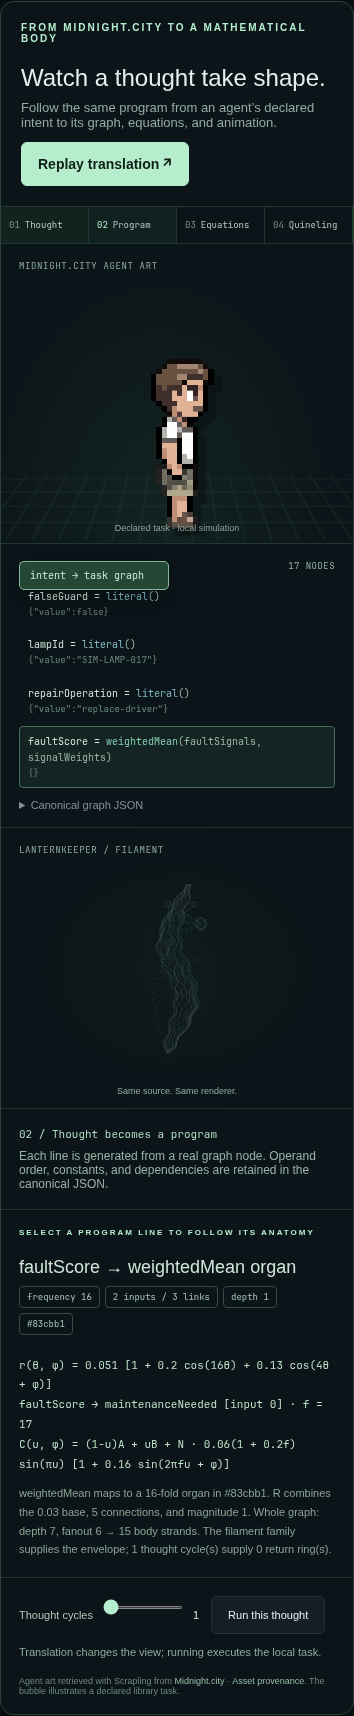
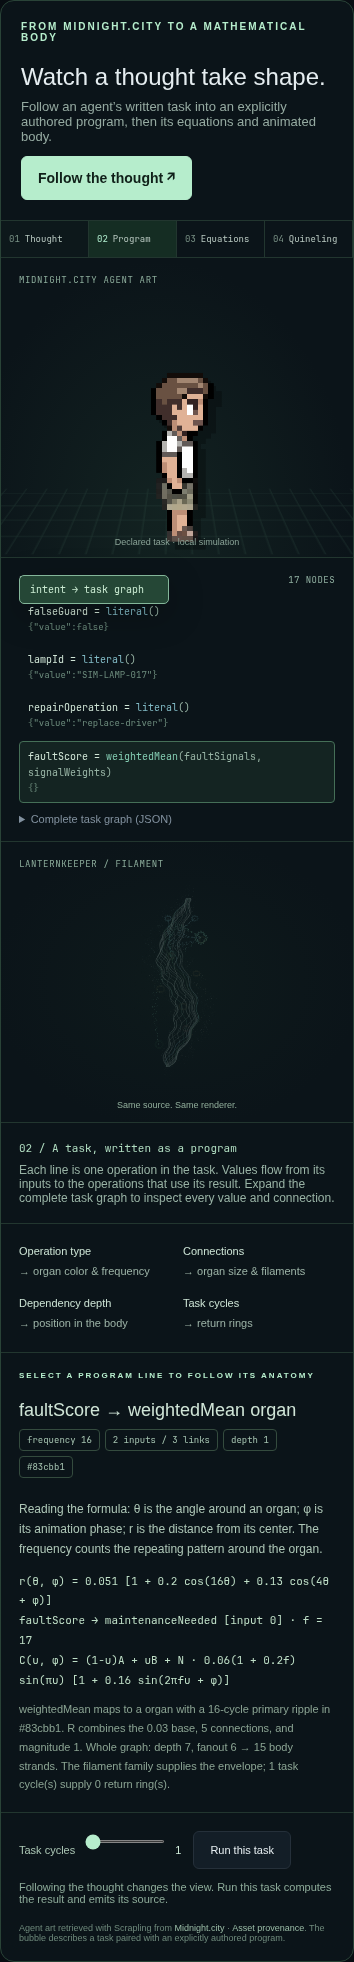
Explain Quinelings through tasks, anatomy, and source reproduction

diff --git a/index.html b/index.html
@@ -1,28 +1,55 @@
 <!doctype html>
 <html lang="en">
-<head><meta charset="utf-8"><meta name="viewport" content="width=device-width,initial-scale=1"><meta name="theme-color" content="#080d12"><title>Quinelings — An executable bestiary</title><link rel="stylesheet" href="style.css"><link rel="stylesheet" href="translation.css"></head>
+<head><meta charset="utf-8"><meta name="viewport" content="width=device-width,initial-scale=1"><meta name="theme-color" content="#080d12"><title>Quinelings — An executable bestiary</title><link rel="stylesheet" href="style.css"><link rel="stylesheet" href="translation.css"><link rel="stylesheet" href="learning.css"></head>
 <body><main>
-<nav><a class="wordmark" href="./"><span class="brand-icon">✳</span> QUINELINGS</a><span>LOCAL LABORATORY <i class="live-dot"></i></span></nav>
-<header><div><p class="eyebrow">A LIBRARY OF SELF-REPRODUCING PROGRAMS</p><h1>Small programs.<br><em>Strange creatures.</em></h1><p class="intro">Ten useful computations, given a mathematical body. Explore their structure, execute their tasks, and recover the source from their harmonic genomes.</p></div><div class="header-note"><span>01 — 10</span><p>Finite graphs.<br>Exact source.<br>Infinite curiosity.</p></div></header>
+<nav><a class="wordmark" href="./"><span class="brand-icon">✳</span> QUINELINGS</a><span>INTERACTIVE LABORATORY <i class="live-dot"></i></span></nav>
+<header><div><p class="eyebrow">A LIBRARY OF SELF-REPRODUCING PROGRAMS</p><h1>Small programs.<br><em>Strange creatures.</em></h1><p class="intro">A Quineling is a small program that performs a task, outputs its own complete source code, and gives its structure an animated mathematical body. Watch its operations become organs, run its task, and create a fresh copy from the source it produces.</p></div><div class="header-note"><span>01 — 10</span><p>Finite graphs.<br>Exact source.<br>Infinite curiosity.</p></div></header>
+<section id="how-it-works" class="learning" aria-labelledby="learning-title">
+<div class="section-label"><h2 id="learning-title">One program. Three ways to understand it.</h2><a href="#first-experiment">Try a first experiment ↓</a></div>
+<div class="learning-grid">
+<article><span class="learning-number">01 / TASK</span><h3>It does useful work.</h3><p>A program is a network of operations: read values, calculate a score, choose a route, or allocate a budget. Each operation runs after its inputs are ready.</p><p>Lanternkeeper combines lamp readings, checks inspection evidence and permission, and decides whether to simulate a repair.</p></article>
+<article><span class="learning-number">02 / BODY</span><h3>You can see its structure.</h3><p>Operations become colored organs. Dependencies—the places one operation uses another’s result—become connecting filaments. Click a program line to find its organ.</p><p>A chosen body family supplies the silhouette. The program’s structure shapes its anatomy within that family.</p></article>
+<article><span class="learning-number">03 / QUINE</span><h3>It outputs its own source.</h3><p>A <strong>quine</strong> is a program that outputs its own source code. Each Quineling computes its task result and constructs its complete source as a separate output.</p><p><strong>Reproduce</strong> builds and runs a fresh program from that emitted source, then verifies that the source and task results match.</p></article>
+</div>
+<p class="learning-runtime">Everything runs in your browser: a JavaScript interpreter executes the program, and a canvas draws its body. Motion displays structure; the Run controls execute tasks. Programs have up to 64 task operations and 1–8 task cycles.</p>
+</section>
 <section id="translation" class="translation" aria-label="Thought to animation translation" data-stage="0">
-<div class="translation-heading"><div><p class="eyebrow">FROM MIDNIGHT.CITY TO A MATHEMATICAL BODY</p><h2>Watch a thought take shape.</h2><p>Follow the same program from an agent’s declared intent to its graph, equations, and animation.</p></div><button id="translate-play" class="primary">Translate the thought ↗</button></div>
+<div class="translation-heading"><div><p class="eyebrow">FROM MIDNIGHT.CITY TO A MATHEMATICAL BODY</p><h2>Watch a thought take shape.</h2><p>Follow an agent’s written task into an explicitly authored program, then its equations and animated body.</p></div><button id="translate-play" class="primary">Follow the thought ↗</button></div>
 <div class="translation-steps" role="group" aria-label="Translation stages"><button data-stage="0" aria-pressed="true">01 <span>Thought</span></button><button data-stage="1" aria-pressed="false">02 <span>Program</span></button><button data-stage="2" aria-pressed="false">03 <span>Equations</span></button><button data-stage="3" aria-pressed="false">04 <span>Quineling</span></button></div>
 <div class="translation-scene">
 <div class="agent-scene"><span class="scene-label">MIDNIGHT.CITY AGENT ART</span><div class="city-grid"></div><img src="assets/midnight/activity-character-diamond.png" alt="Pixel agent artwork retrieved from Midnight.city" id="city-agent"><div class="agent-label">Declared task · local simulation</div></div>
-<div class="program-scene"><div class="scene-title"><span>EXECUTABLE GRAPH</span><span id="translation-node-count"></span></div><div id="translation-program" aria-label="Selectable program operations"></div><details><summary>Canonical graph JSON</summary><pre id="translation-json"></pre></details></div>
+<div class="program-scene"><div class="scene-title"><span>EXECUTABLE GRAPH</span><span id="translation-node-count"></span></div><div id="translation-program" aria-label="Selectable program operations"></div><details><summary>Complete task graph (JSON)</summary><pre id="translation-json"></pre></details></div>
 <div class="form-scene"><span class="scene-label" id="translation-family">QUINELING</span><canvas id="translation-form" width="700" height="600" aria-label="Program-derived Quineling animation"></canvas><span class="form-label">Same source. Same renderer.</span></div>
 <svg id="translation-links" aria-hidden="true"><path id="translation-link-path"/><circle id="translation-link-dot" r="5"/><text id="translation-link-label"></text></svg><div id="thought-bubble"><span id="thought-content"></span><span class="thought-dots"><i></i><i></i></span></div>
 </div>
 <div class="translation-caption" aria-live="polite"><span id="translation-stage-title">01 / A declared thought</span><p id="translation-caption"></p></div>
-<div class="translation-inspector"><div><p class="eyebrow">SELECT A PROGRAM LINE TO FOLLOW ITS ANATOMY</p><h3 id="translation-node-name"></h3><div id="translation-tags"></div></div><div class="equation-block"><code id="translation-equation"></code><code id="translation-edge"></code><p id="translation-rule"></p></div></div>
-<div class="translation-toolbar"><label>Thought cycles <input id="translation-cycles" type="range" min="1" max="8" value="1"><output id="translation-cycles-value">1</output></label><button id="translation-run">Run this thought</button><span id="translation-receipt">Translation changes the view; running executes the local task.</span></div>
-<p class="translation-provenance">Agent art retrieved with Scrapling from <a href="https://midnight.city/">Midnight.city</a> · <a href="assets/midnight/provenance.json">Asset provenance</a>. The bubble illustrates a declared library task.</p>
+<div class="anatomy-key" aria-label="Program to body mapping"><span><strong>Operation type</strong> → organ color &amp; frequency</span><span><strong>Connections</strong> → organ size &amp; filaments</span><span><strong>Dependency depth</strong> → position in the body</span><span><strong>Task cycles</strong> → return rings</span></div>
+<div class="translation-inspector"><div><p class="eyebrow">SELECT A PROGRAM LINE TO FOLLOW ITS ANATOMY</p><h3 id="translation-node-name" aria-live="polite"></h3><div id="translation-tags"></div></div><div class="equation-block"><p class="formula-help">Reading the formula: θ is the angle around an organ; φ is its animation phase; r is the distance from its center. The frequency counts the repeating pattern around the organ.</p><code id="translation-equation"></code><code id="translation-edge"></code><p id="translation-rule"></p></div></div>
+<div class="translation-toolbar"><label>Task cycles <input id="translation-cycles" type="range" min="1" max="8" value="1"><output id="translation-cycles-value">1</output></label><button id="translation-run">Run this task</button><span id="translation-receipt">Following the thought changes the view. Run this task computes the result and emits its source.</span></div>
+<p class="translation-provenance">Agent art retrieved with Scrapling from <a href="https://midnight.city/">Midnight.city</a> · <a href="assets/midnight/provenance.json">Asset provenance</a>. The bubble describes a task paired with an explicitly authored program.</p>
 </section>
-<section class="library-section" aria-label="Creature library"><div class="section-label"><h2>The collection</h2><span id="library-count">Loading specimens…</span></div><div id="library" class="library"></div></section>
+<section id="first-experiment" class="learning experiment" aria-labelledby="experiment-title">
+<div class="section-label"><h2 id="experiment-title">Your first experiment: should the lamp be repaired?</h2><span>LANTERNKEEPER / DEFAULT SPECIMEN</span></div>
+<p>Select <a href="#collection">Lanternkeeper in the collection</a>, choose its <code>default-confirmed-fault</code> scenario, set Task cycles to <strong>1</strong>, then return to the walkthrough. Follow one calculation from input to decision, then verify the program’s reproduction.</p>
+<ol class="experiment-steps">
+<li><strong>Find a calculation.</strong> In the walkthrough, select <code>faultScore</code>. It combines readings <code>[1, 1, 0.5]</code> with weights <code>[4, 2, 2]</code>: <code>(4 + 2 + 1) / 8 = 0.875</code>. The connector points to its mint-colored organ with a 16-cycle primary ripple.</li>
+<li><strong>Run and read the result.</strong> Press <a href="#task-controls">Run task + emit source</a> below. The score passes the <code>0.625</code> threshold; supporting evidence and permission allow a simulated repair. The program also emits its full source.</li>
+<li><strong>Change the inputs.</strong> Choose <code>healthy-lamp-guard-false</code> under Task scenario, then run again. The score becomes <code>0.125</code> and the repair is skipped. <strong>Replay step →</strong> follows recorded operations without running them again.</li>
+<li><strong>Verify a fresh generation.</strong> Press <strong>Reproduce</strong>. A fresh program is built from the emitted source and executed. Its source and task results must match its parent’s.</li>
+<li><strong>Recover the code from data.</strong> Try either <a href="#genome">recovery control</a>. The complete source is reconstructed from wave samples or exact RGB records and checked by execution.</li>
+</ol>
+</section>
+<section id="collection" class="library-section" aria-label="Creature library"><div class="section-label"><h2>The collection</h2><span id="library-count">Loading specimens…</span></div><div id="library" class="library"></div></section>
 <section class="workspace" aria-label="Selected creature">
-<div class="specimen"><div class="canvas-top"><span class="pill" id="status">LOADING</span><span id="metrics"></span></div><canvas id="creature" width="1000" height="800" aria-label="Animated program topology"></canvas><div class="canvas-caption"><span id="family-label">EXECUTABLE SPECIMEN</span><span id="generation">GENERATION 0</span></div><div class="canvas-controls"><label><input type="checkbox" id="semantic-color" checked> Opcode colors</label><label><input type="checkbox" id="topology"> Node labels</label><button id="pause">Pause motion</button></div><div id="organ-info">Select a colored organ to inspect its operation.</div></div>
-<aside><p class="eyebrow" id="specimen-id">SELECTED SPECIMEN</p><h2 id="identity">Loading library</h2><p id="description" class="muted">Preparing the executable collection.</p><div class="task-controls"><label for="fixture">Task input</label><select id="fixture" aria-label="Task fixture"></select><label for="repeats">Bounded cycles <output id="repeats-label">1</output></label><input id="repeats" type="range" min="1" max="8" value="1"></div><div class="actions"><button id="run" class="primary">Run task + quine <span>↗</span></button><button id="birth">Reproduce</button></div><p id="receipt" class="receipt" role="status" aria-live="polite">All computations and effects run locally.</p><div class="inspection"><div class="section-label"><h3>Task output</h3><button id="step" class="text-button">Replay step →</button></div><pre id="task-output">Run the selected task to inspect its output.</pre><pre id="trace">Execution trace will appear here.</pre></div><details class="legend"><summary>Opcode color dictionary</summary><div id="color-legend"></div></details></aside>
+<div class="specimen"><div class="canvas-top"><span class="pill" id="status">LOADING</span><span id="metrics"></span></div><canvas id="creature" width="1000" height="800" aria-label="Animated program topology"></canvas><div class="canvas-caption"><span id="family-label">EXECUTABLE SPECIMEN</span><span id="generation">GENERATION 0</span></div><div class="canvas-controls"><label><input type="checkbox" id="semantic-color" checked> Operation colors</label><label><input type="checkbox" id="topology"> Node labels</label><button id="pause">Pause motion</button></div><div id="organ-info">Select a colored organ to inspect its operation.</div></div>
+<aside><p class="eyebrow" id="specimen-id">SELECTED SPECIMEN</p><h2 id="identity">Loading library</h2><p id="description" class="muted">Preparing the executable collection.</p><div class="task-controls" id="task-controls"><label for="fixture">Task scenario</label><p class="control-help">Choose prepared inputs. Changing the scenario changes the values encoded in this program.</p><select id="fixture" aria-label="Task scenario"></select><label for="repeats">Task cycles <output id="repeats-label">1</output></label><input id="repeats" type="range" min="1" max="8" value="1"></div><div class="actions"><button id="run" class="primary">Run task + emit source <span>↗</span></button><button id="birth">Reproduce</button></div><p class="control-help">Run computes a result and emits the source. Reproduce creates and verifies a fresh program from that source.</p><p id="receipt" class="receipt" role="status" aria-live="polite">All computations and effects run locally.</p><div class="inspection"><div class="section-label"><h3>Task output</h3><button id="step" class="text-button">Replay step →</button></div><pre id="task-output">Run the selected task to inspect its output.</pre><pre id="trace">Execution trace will appear here.</pre></div><details class="legend"><summary>Operation color dictionary</summary><div id="color-legend"></div></details></aside>
 </section>
-<section class="genome"><div class="genome-heading"><p class="eyebrow">THE RECOVERABLE GENOME</p><h2>A source you can sample.</h2><p class="muted">Each harmonic band is a finite cosine polynomial. A separate exact RGB byte strand independently carries the same complete source.</p></div><div class="genome-grid"><div><label class="band-label" for="band">Harmonic band <output id="band-label">—</output></label><input type="range" id="band" min="0" max="0" value="0"><canvas id="wave" width="960" height="220" aria-label="Selected harmonic band"></canvas><canvas id="chroma" width="960" height="40" aria-label="Exact RGB byte strand"></canvas><p class="micro">32 coefficients per band · 65 numerical samples · exact byte colors</p></div><div><div class="recovery-actions"><button id="recover">Recover harmonic samples</button><button id="recover-color">Recover exact RGB</button></div><pre id="proof">Loading source…</pre><div class="downloads"><span>DOWNLOAD</span><button id="download">Harmonics ↓</button><button id="download-color">RGB strand ↓</button><button id="download-source">Source ↓</button></div></div></div><details class="source-details"><summary>Inspect canonical program source</summary><textarea id="source" readonly spellcheck="false" aria-label="Canonical program source"></textarea></details></section>
+<section class="genome" id="genome"><div class="genome-heading"><p class="eyebrow">THE RECOVERABLE GENOME</p><h2>Recover the complete program.</h2><p class="muted">The body shows program structure. Its genome stores the complete source in two independently recoverable forms: wave data and exact RGB color records. Either can rebuild the program, including its task inputs and body design.</p></div><div class="genome-explanation"><p><strong>Wave data:</strong> each band stores 32 coefficients that encode source bytes in a cosine wave. Recovery uses 65 numerical samples from every band to reconstruct those coefficients and the source.</p><p><strong>RGB data:</strong> each exact color record stores a source byte. This encoding is separate from the organ colors, which identify operation types. Recovery uses the underlying data, not a screenshot of the creature.</p></div><div class="genome-grid"><div><label class="band-label" for="band">Harmonic band <output id="band-label">—</output></label><input type="range" id="band" min="0" max="0" value="0"><canvas id="wave" width="960" height="220" aria-label="Selected harmonic band"></canvas><canvas id="chroma" width="960" height="40" aria-label="Exact RGB byte strand"></canvas><p class="micro">32 coefficients per band · 65 numerical samples · exact byte colors</p></div><div><div class="recovery-actions"><button id="recover">Recover from wave samples</button><button id="recover-color">Recover from RGB records</button></div><pre id="proof">Loading source…</pre><div class="downloads"><span>DOWNLOAD</span><button id="download">Harmonics ↓</button><button id="download-color">RGB strand ↓</button><button id="download-source">Source ↓</button></div></div></div><details class="source-details"><summary>Inspect complete program source</summary><textarea id="source" readonly spellcheck="false" aria-label="Canonical program source"></textarea></details></section>
+<section class="learning questions" aria-labelledby="questions-title"><h2 id="questions-title">A little more about the creatures</h2>
+<details><summary>Why give a program a body?</summary><p>A body gives you a visual index into a program: select an organ, inspect its operation, and follow its inputs to the result. Compare a lamp-repair decision, a route, or a budget across prepared scenarios, then reproduce the exact program that made the decision.</p></details>
+<details><summary>Are they alive or thinking?</summary><p>“Living program” is the creative metaphor. These specimens reproduce identical executable programs when you use the controls. The thought bubble describes an authored task; the demo pairs that description with a program explicitly. This browser prototype uses retrieved artwork and local simulated actions. The wider Midnight.city ambition is for agents to exchange inspectable, reproducible programs whose structures become animated creatures and street art.</p></details>
+<details><summary>Does every program have a unique-looking creature?</summary><p>The full source is preserved in its genome. The body is a designed visual summary, so different programs can look similar. Operation colors, frequencies, connections, and the chosen family explain the anatomy; genome recovery checks exact source identity.</p></details>
+<details><summary>How does the source reproduce?</summary><p>The program quotes its task and a smaller constructor body as data. Running the constructor rebuilds the complete expression and emits it. Reproduce parses that output and runs a fresh instance. The generation counter records verified copies with matching source and results.</p><p><a href="docs/MAPPING.md">Read the constructor and encoding specification →</a></p></details>
+</section>
 <footer><span class="wordmark">✳ QUINELINGS</span><p>Body formulas are projections of finite program graphs. Recovery uses numerical samples or exact RGB data, not screenshots. Effects are local simulations. <a href="docs/DESIGN-LANGUAGE.md">Design language</a> · <a href="docs/QDL.md">QDL</a> · <a href="spec/design.qnt">Formal specification</a>.</p><span>BUILT FROM STRUCTURE</span></footer>
 </main><script src="orbit.js"></script><script src="kernels.js"></script><script src="qdl.js"></script><script src="core.js"></script><script src="gallery.js"></script><script src="translation.js"></script></body></html>

diff --git a/translation.js b/translation.js
@@ -4,23 +4,23 @@ const $=id=>document.getElementById(id),Q=Quinelings,D=QDL,section=$('translatio
 let stage=0,timer=null,phase=0,activeNode=null,playing=false;
 const reduced=matchMedia('(prefers-reduced-motion: reduce)').matches;
 const intents={lanternkeeper:'Check the fault and the evidence. Repair the lamp only when the repair is permitted.',wayfinder:'Find the shortest open route to the destination. Avoid blocked streets.',swarmwarden:'Share the available resources in request order, without giving away more than we have.',echoweaver:'Listen to independent sources. Admit a decision only when enough distinct sources agree.',raincatcher:'Combine the sensors. Work out the water needed, then stay within the reservoir budget.',tidemender:'Order the repair jobs by dependency. Find the earliest finish time.',memorybloom:'Keep track of support and contradiction. Count each source once for each claim.',pulsekeeper:'Retry transient failures within the attempt budget. Stop when the outcome becomes uncertain.',threadsorter:'Filter the queue, keep the first duplicate, and order the remaining work by priority.',seedbank:'Square the work requests, add their cost, and withdraw only what the reserve can cover.'};
-const titles=['01 / A declared thought','02 / Thought becomes a program','03 / Program becomes equations','04 / Equations become a Quineling'];
-const captions=['The agent’s bubble expresses the selected library task. Its executable graph is the explicit, authored meaning of that intent.','Each line is generated from a real graph node. Operand order, constants, and dependencies are retained in the canonical JSON.','Operation identity determines organ frequency and color. Degree and parameters determine its radius. Dependencies become endpoint-pinned filaments.','This canvas uses the exact same program, QDL profile, and rendering function as the library below. Select a line to follow its organ.'];
+const titles=['01 / A declared thought','02 / A task, written as a program','03 / Code determines the drawing','04 / The program has a moving body'];
+const captions=['The sentence describes the selected task. We wrote its program explicitly; this walkthrough follows that program into its body.','Each line is one operation in the task. Values flow from its inputs to the operations that use its result. Expand the complete task graph to inspect every value and connection.','The operation type selects an organ’s color and wave frequency. Its connections and values affect its size. Dependencies become filaments that stay attached as the body moves.','This is the selected program’s body, drawn with the same design rules as the collection below. Select a line to follow its organ. Motion changes the view; Run executes the task.'];
 function setStage(n){if(!Number.isInteger(n)||n<0||n>3)throw Error('Unknown translation stage');stage=n;section.dataset.stage=String(n);section.querySelectorAll('.translation-steps button').forEach(b=>b.setAttribute('aria-pressed',String(Number(b.dataset.stage)===n)));$('translation-stage-title').textContent=titles[n];$('translation-caption').textContent=captions[n];const item=window.quineling.current;$('thought-content').textContent=n===0?(intents[item?.id]||item?.description||'Loading a declared task…'):n===1?'intent → task graph':n===2?'graph → r(θ, φ)':'program → body';}
-function stop(){if(timer)clearTimeout(timer);timer=null;playing=false;$('translate-play').textContent='Replay translation ↗';}
-function play(){stop();playing=true;setStage(0);$('translate-play').textContent='Pause translation';const advance=()=>{if(stage<3){setStage(stage+1);timer=setTimeout(advance,2200);}else stop();};timer=setTimeout(advance,1700);}
+function stop(){if(timer)clearTimeout(timer);timer=null;playing=false;$('translate-play').textContent='Follow the thought ↗';}
+function play(){stop();playing=true;setStage(0);$('translate-play').textContent='Pause walkthrough';const advance=()=>{if(stage<3){setStage(stage+1);timer=setTimeout(advance,2200);}else stop();};timer=setTimeout(advance,1700);}
 function num(v){return Number(v.toFixed(4)).toString();}
-function focus(id,propagate=true){const api=window.quineling,n=api.shape.nodes.find(n=>n.id===id);if(!n)return;activeNode=id;if(propagate)api.focusNode(id);for(const b of $('translation-program').children)b.classList.toggle('active',b.dataset.node===id);$('translation-node-name').textContent=`${n.id} → ${n.op} organ`;
+function focus(id,propagate=true){const api=window.quineling,n=api.shape.nodes.find(n=>n.id===id);if(!n)return;activeNode=id;if(propagate)api.focusNode(id);for(const b of $('translation-program').children){const active=b.dataset.node===id;b.classList.toggle('active',active);b.setAttribute('aria-pressed',String(active));}$('translation-node-name').textContent=`${n.id} → ${n.op} organ`;
  const graphNode=api.shape.graph.nodes.find(x=>x.id===id),design=api.shape.design,value=n.params?.value,magnitude=typeof value==='number'?Math.min(6,Math.abs(value)):Array.isArray(value)?Math.min(6,value.length):1,R=Math.min(.16,design.organ.baseRadius+design.organ.degreeGain*(n.indegree+n.outdegree)+design.organ.literalGain*magnitude);
  $('translation-tags').replaceChildren();for(const label of [`frequency ${n.frequency}`,`${n.indegree} inputs / ${n.outdegree} links`,`depth ${n.level}`,Q.instructionColor(n.op)]){const span=document.createElement('span');span.className='mapping-tag';span.textContent=label;$('translation-tags').append(span);}
  $('translation-equation').textContent=`r(θ, φ) = ${num(R)} [1 + ${num(design.organ.amplitudes[0])} cos(${n.frequency}θ) + ${num(design.organ.amplitudes[1])} cos(${n.outdegree+1}θ + φ)]`;
  const edge=api.shape.links.find(e=>e.from===id)||api.shape.links.find(e=>e.to===id),f=edge?1+edge.port+api.shape.nodes.find(n=>n.id===edge.from).frequency:null;$('translation-edge').textContent=edge?`${edge.from} → ${edge.to} [input ${edge.port}] · f = ${f}\nC(u, φ) = (1−u)A + uB + N · ${num(design.filament.bend)}(1 + ${num(design.filament.frequencyGain)}f) sin(πu) [1 + ${num(design.filament.ripple)} sin(2πfu + φ)]`:'No dependency filament: this node supplies a source value.';
- $('translation-rule').textContent=`${graphNode.op} maps to a ${n.frequency}-fold organ in ${Q.instructionColor(n.op)}. R combines the ${num(design.organ.baseRadius)} base, ${n.indegree+n.outdegree} connections, and magnitude ${num(magnitude)}. Whole graph: depth ${api.shape.maxDepth}, fanout ${api.shape.branches} → ${api.shape.strandCount} body strands. The ${design.family} family supplies the envelope; ${api.shape.repeats} thought cycle(s) supply ${api.shape.repeats-1} return ring(s).`;
+ $('translation-rule').textContent=`${graphNode.op} maps to a organ with a ${n.frequency}-cycle primary ripple in ${Q.instructionColor(n.op)}. R combines the ${num(design.organ.baseRadius)} base, ${n.indegree+n.outdegree} connections, and magnitude ${num(magnitude)}. Whole graph: depth ${api.shape.maxDepth}, fanout ${api.shape.branches} → ${api.shape.strandCount} body strands. The ${design.family} family supplies the envelope; ${api.shape.repeats} task cycle(s) supply ${api.shape.repeats-1} return ring(s).`;
  const row=[...$('translation-program').children].find(b=>b.dataset.node===id);if(row){const r=row.getBoundingClientRect(),c=$('translation-program').getBoundingClientRect();if(r.bottom>c.bottom)$('translation-program').scrollTop+=r.bottom-c.bottom;if(r.top<c.top)$('translation-program').scrollTop-=c.top-r.top;}
 }
 function refresh(){const api=window.quineling;if(!api?.shape)return;stop();const item=api.current,g=api.shape.graph;$('translation-family').textContent=`${item.name.toUpperCase()} / ${api.shape.design.family.toUpperCase()}`;$('translation-node-count').textContent=`${g.nodes.length} NODES`;$('translation-json').textContent=Q.canon(g);$('translation-program').replaceChildren();
  for(const n of g.nodes){const b=document.createElement('button');b.className='program-line';b.dataset.node=n.id;b.style.setProperty('--opcode-color',Q.instructionColor(n.op));const id=document.createElement('span');id.className='line-id';id.textContent=n.id+' = ';const op=document.createElement('span');op.className='line-op';op.textContent=n.op;const args=document.createElement('span');args.textContent='('+n.inputs.join(', ')+')';const params=document.createElement('span');params.className='line-params';const full=Q.canon(n.params);params.textContent=full.length>110?full.slice(0,107)+'…':full;params.title=full;b.append(id,op,args,params);b.onclick=()=>{stop();setStage(2);focus(n.id);};$('translation-program').append(b);}
- const preferred=g.nodes.find(n=>n.id===activeNode)||g.nodes.find(n=>n.op!=='literal')||g.nodes[0];focus(preferred.id);$('translation-cycles').value=api.shape.repeats;$('translation-cycles-value').textContent=api.shape.repeats;$('translation-receipt').textContent='Translation changes the view; running executes the local task.';setStage(0);
+ const preferred=g.nodes.find(n=>n.id===activeNode)||g.nodes.find(n=>n.op!=='literal')||g.nodes[0];focus(preferred.id);$('translation-cycles').value=api.shape.repeats;$('translation-cycles-value').textContent=api.shape.repeats;$('translation-receipt').textContent='Following the thought changes the view. Run this task computes the result and emits its source.';setStage(0);
 }
 section.querySelectorAll('.translation-steps button').forEach(b=>b.onclick=()=>{stop();setStage(Number(b.dataset.stage));});$('translate-play').onclick=()=>playing?stop():play();
 $('translation-cycles').oninput=()=>{const v=$('translation-cycles').value;$('repeats').value=v;$('repeats').dispatchEvent(new Event('input'));setStage(3);};

diff --git a/learning.css b/learning.css
@@ -1,0 +1,3 @@
+.learning{margin:0 0 42px;scroll-margin-top:24px}.learning .section-label h2{font-size:21px}.learning .section-label a{color:var(--mint);font-size:12px}.learning-grid{display:grid;grid-template-columns:repeat(3,1fr);border:1px solid var(--line);border-radius:10px;overflow:hidden}.learning-grid article{padding:24px;background:#0d151b}.learning-grid article+article{border-left:1px solid var(--line)}.learning-number{font:10px ui-monospace,monospace;letter-spacing:1px;color:var(--mint)}.learning-grid h3{font-size:20px;letter-spacing:-.4px;margin:14px 0}.learning p,.experiment-steps{font-size:15px;color:#a5b5bc;line-height:1.8}.learning p strong,.experiment-steps strong{color:#dce8e3}.learning-runtime{padding:14px 0 0;max-width:1000px}.anatomy-key{display:grid;grid-template-columns:repeat(4,1fr);gap:16px;border-bottom:1px solid #22362f;padding:18px 26px;font-size:11px;line-height:1.8;color:#9cb3a6}.anatomy-key strong{display:block;color:#cce3d4;font-weight:500}.experiment{border-left:2px solid #609d7d;padding:4px 0 4px 24px}.experiment-steps{padding-left:22px;max-width:1040px}.experiment-steps li{margin:12px 0;padding-left:8px}.experiment code{font:11px ui-monospace,monospace;color:#bde5cc;background:#14261d;padding:2px 4px;border-radius:3px}.experiment a,.questions a{color:var(--mint);text-decoration:underline;text-underline-offset:3px}.control-help{font-size:12px;line-height:1.7;color:var(--muted);margin:0 0 12px}.genome-explanation{display:grid;grid-template-columns:1fr 1fr;gap:30px;max-width:1050px}.genome-explanation p{font-size:14px;line-height:1.8;color:var(--muted)}.genome-explanation strong{color:#c5dbd1}.questions{margin-top:46px;padding-top:26px;border-top:1px solid var(--line)}.questions h2{font-size:23px;margin-bottom:16px}.questions details{border-bottom:1px solid var(--line);padding:17px 0}.questions summary{font-size:14px;color:#c9ded4}.questions p{max-width:900px;margin-bottom:0}#task-controls,#genome{scroll-margin-top:24px}@media(max-width:760px){.learning-grid{grid-template-columns:1fr}.learning-grid article+article{border-left:0;border-top:1px solid var(--line)}.learning .section-label{align-items:start;gap:12px;flex-direction:column}.learning .section-label h2{font-size:20px}.learning-grid article{padding:20px}.anatomy-key{grid-template-columns:1fr 1fr;padding:18px;gap:12px}.experiment{padding-left:16px}.genome-explanation{grid-template-columns:1fr;gap:0}.questions h2{font-size:21px}}
+
+.equation-block .formula-help{margin:0 0 12px;font-size:12px;color:#aec7b7}#collection{scroll-margin-top:24px}

diff --git a/verify-translation.py b/verify-translation.py
@@ -26,6 +26,8 @@ with sync_playwright() as p:
     page.evaluate('translation.stop();translation.setStage(2)')
     page.locator('.program-line[data-node="faultScore"]').click()
     assert page.evaluate('quineling.selected')=='faultScore'
+    assert page.locator('.program-line[data-node="faultScore"]').get_attribute('aria-pressed')=='true'
+    assert page.locator('.program-line[aria-pressed="true"]').count()==1
     assert 'weightedMean' in page.locator('#translation-node-name').inner_text()
     frequency=page.evaluate('quineling.shape.nodes.find(n=>n.id==="faultScore").frequency')
     assert f'cos({frequency}θ)' in page.locator('#translation-equation').inner_text()
